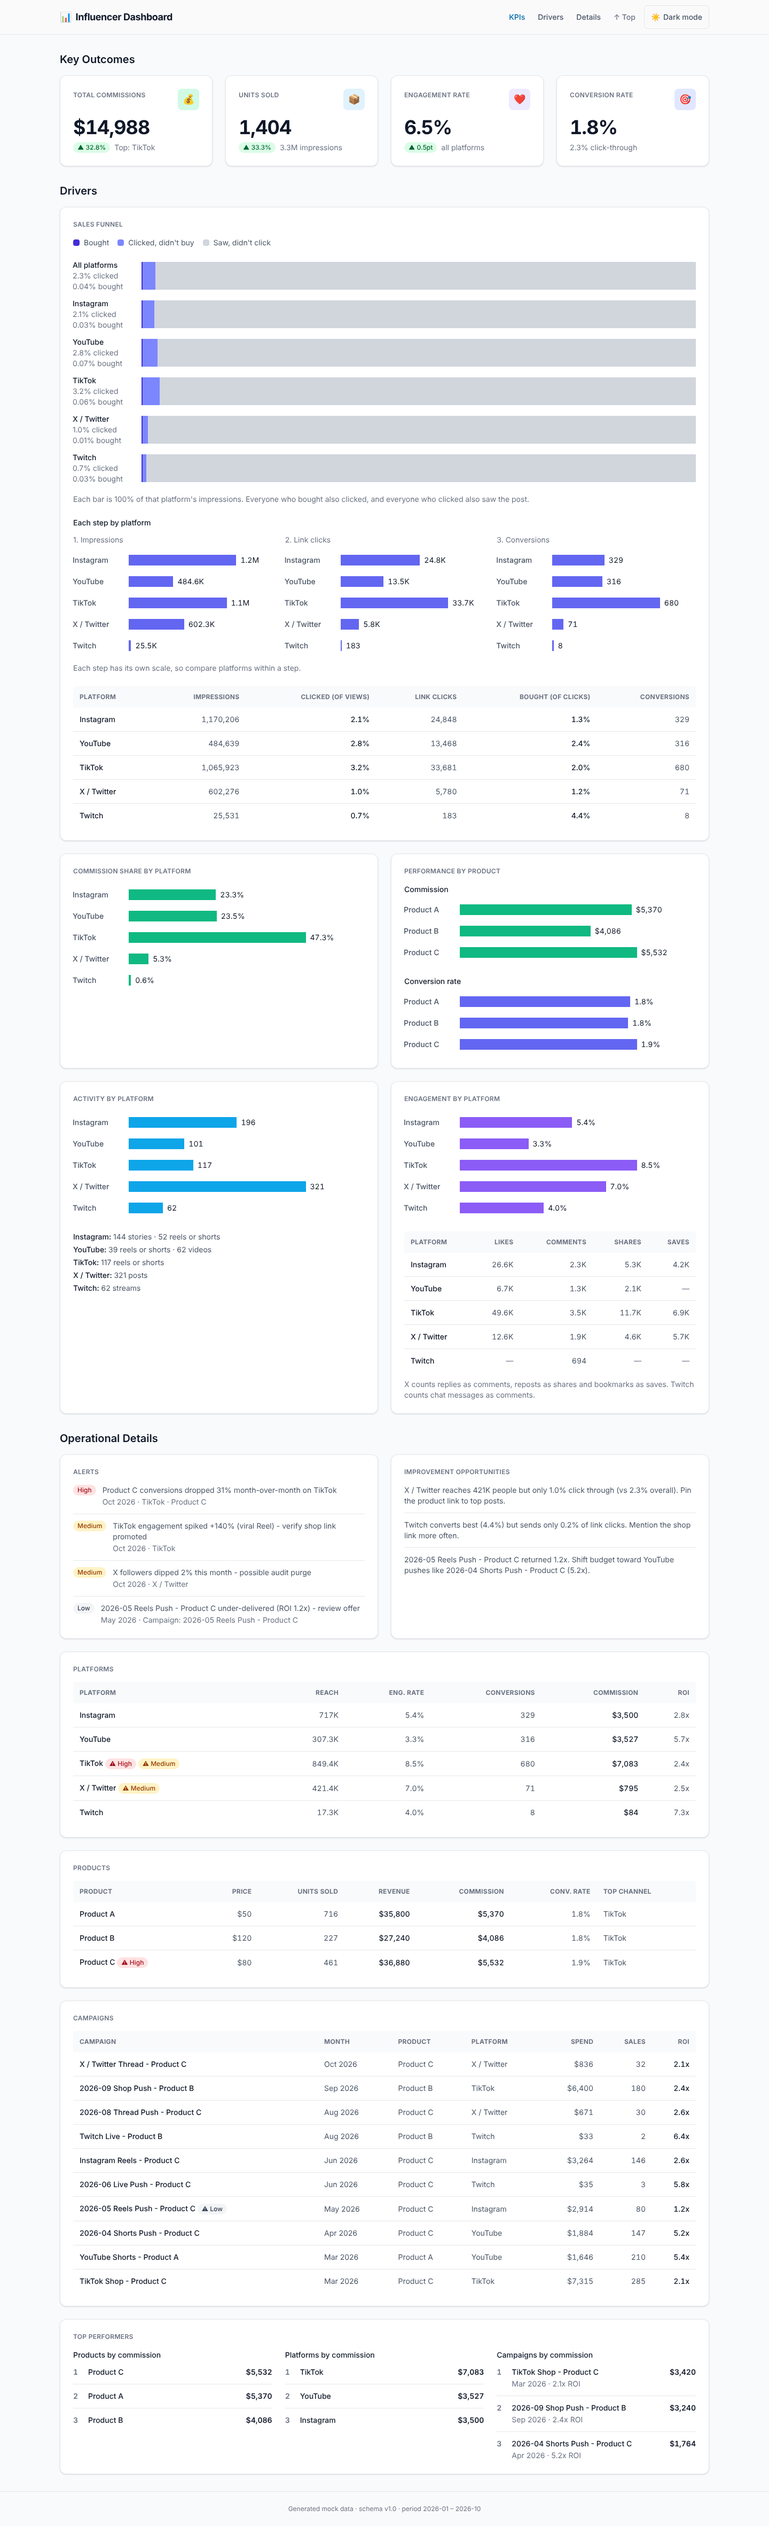
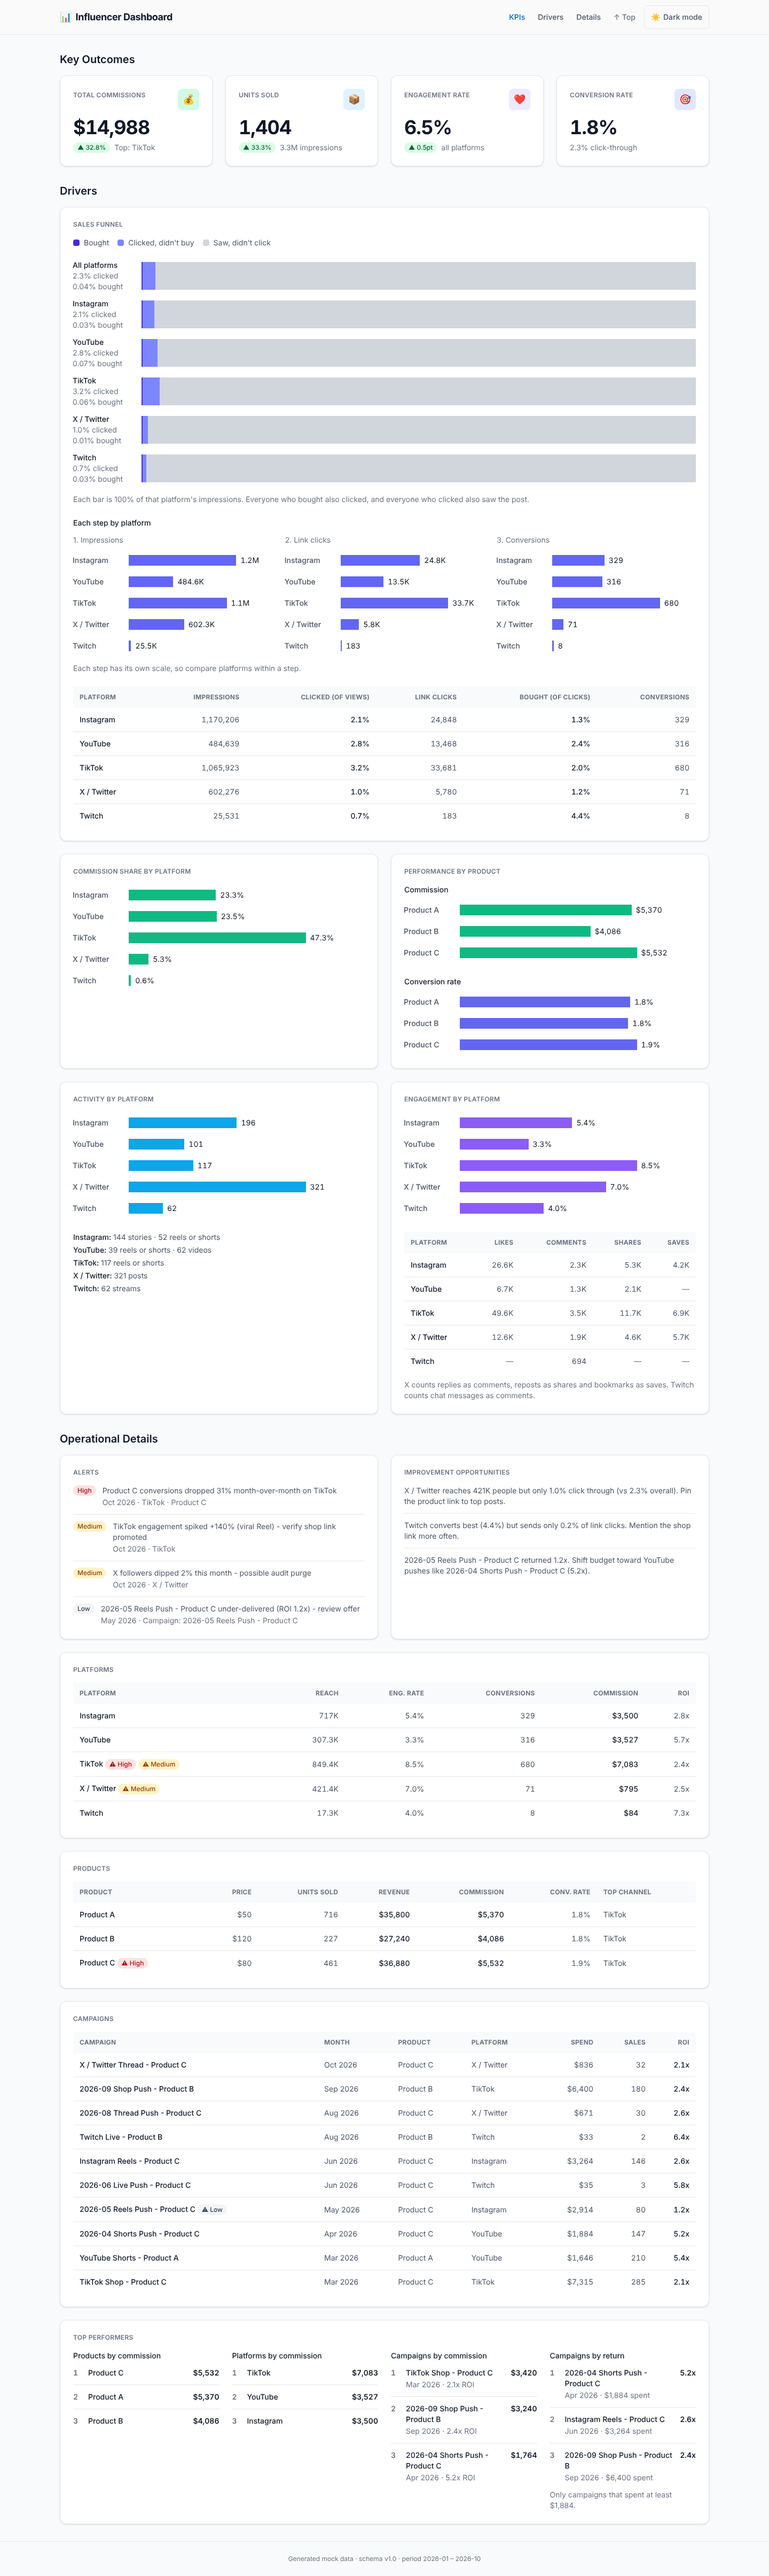
Add a "Campaigns by return" list with a minimum spend
Top performers now ranks campaigns by commission and, separately, by ROI
among campaigns that spent at least the median, so $33 tests don't top
the ROI list. The generator precomputes rankings.campaignsByRoi and
roiMinSpend, with invariant checks.

Claude-Session: https://claude.ai/code/session_018vAGCnrhPDK2QZmrSrs5ox

diff --git a/app.js b/app.js
@@ -587,7 +587,7 @@
 
     var topCard = card("Top Performers");
     topCard.className += " lg:col-span-2";
-    var topGrid = el("div", "grid gap-6 md:grid-cols-3");
+    var topGrid = el("div", "grid gap-6 md:grid-cols-2 lg:grid-cols-4");
     [
       {
         subtitle: "Products by commission",
@@ -609,11 +609,20 @@
           var c = campaignById[id];
           return { text: c.name, meta: month(c.period) + " · " + ratio(c.roi) + " ROI", value: usd(c.commission) };
         })
+      },
+      {
+        subtitle: "Campaigns by return",
+        note: "Only campaigns that spent at least " + usd(derived.roiMinSpend) + ".",
+        items: derived.rankings.campaignsByRoi.slice(0, 3).map(function (id) {
+          var c = campaignById[id];
+          return { text: c.name, meta: month(c.period) + " · " + usd(c.spend) + " spent", value: ratio(c.roi) };
+        })
       }
     ].forEach(function (group) {
       var col = el("div", "min-w-0");
       col.appendChild(el("p", "text-sm font-medium mb-3 " + T.heading, group.subtitle));
       col.appendChild(list({ ordered: true, items: group.items }));
+      if (group.note) col.appendChild(el("p", "mt-3 text-sm " + T.muted, group.note));
       topGrid.appendChild(col);
     });
     topCard.appendChild(topGrid);

diff --git a/data.js b/data.js
@@ -822,10 +822,12 @@ window.DATA = {
         "viewedOnlyPct": 99.2832,
       },
     },
+    "roiMinSpend": 1884.06,
     "rankings": {
       "products": ["prod-c", "prod-a", "prod-b"],
       "platforms": ["tiktok", "youtube", "instagram", "x", "twitch"],
       "campaigns": ["cmp-06", "cmp-05", "cmp-03", "cmp-02", "cmp-04", "cmp-01", "cmp-08", "cmp-07", "cmp-09", "cmp-10"],
+      "campaignsByRoi": ["cmp-03", "cmp-02", "cmp-05", "cmp-06", "cmp-01"],
     },
     "opportunities": [
       {

diff --git a/scripts/generate-data.py b/scripts/generate-data.py
@@ -569,11 +569,17 @@ def _driver_rollups(data: dict) -> None:
     for p in data["platforms"]:
         d["funnelMix"][p["id"]] = mix(p["impressions"], p["linkClicks"], p["conversions"])
 
-    # Top lists: ids ranked best first.
+    # Top lists: ids ranked best first. ROI is only ranked for campaigns with at
+    # least median spend; a $33 test's ratio swings on a single sale.
+    spends = sorted(c["spend"] for c in data["campaigns"])
+    median_spend = spends[len(spends) // 2]
+    d["roiMinSpend"] = median_spend
     d["rankings"] = {
         "products": [p["id"] for p in sorted(data["products"], key=lambda x: -x["commission"])],
         "platforms": [p["id"] for p in sorted(data["platforms"], key=lambda x: -x["commission"])],
         "campaigns": [c["id"] for c in sorted(data["campaigns"], key=lambda x: -x["commission"])],
+        "campaignsByRoi": [c["id"] for c in sorted((c for c in data["campaigns"] if c["spend"] >= median_spend),
+                                                   key=lambda x: -x["roi"])],
     }
 
     # Improvement opportunities: one short, data-backed suggestion each.
@@ -597,9 +603,7 @@ def _driver_rollups(data: dict) -> None:
     })
     worst_cmp = min(data["campaigns"], key=lambda c: c["roi"])
     # Only compare against campaigns with real spend; tiny tests inflate ROI.
-    spends = sorted(c["spend"] for c in data["campaigns"])
-    median_spend = spends[len(spends) // 2]
-    best_cmp = max((c for c in data["campaigns"] if c["spend"] >= median_spend), key=lambda c: c["roi"])
+    best_cmp = [c for c in data["campaigns"] if c["id"] == d["rankings"]["campaignsByRoi"][0]][0]
     opps.append({
         "campaignId": worst_cmp["id"],
         "message": f"{worst_cmp['name']} returned {worst_cmp['roi']:.1f}x. Shift budget toward "
@@ -752,6 +756,10 @@ def run_invariants(data: dict) -> bool:
     check(len(d["rankings"]["campaigns"]) == len(data["campaigns"]), "rankings.campaigns lists every campaign")
     check(d["rankings"]["platforms"][0] == d["topPlatform"], "rankings.platforms starts with topPlatform")
     check(len(d["opportunities"]) >= 1, "at least one opportunity present")
+    roi_ids = d["rankings"]["campaignsByRoi"]
+    check(len(roi_ids) >= 3, "rankings.campaignsByRoi has at least 3 campaigns")
+    check(all(c["spend"] >= d["roiMinSpend"] for c in data["campaigns"] if c["id"] in roi_ids),
+          "rankings.campaignsByRoi only counts campaigns at or above roiMinSpend")
     for key, m in d["funnelMix"].items():
         check(m["conversions"] <= m["linkClicks"] <= m["impressions"], f"funnelMix {key} steps only shrink")
         check(abs(m["boughtPct"] + m["clickedOnlyPct"] + m["viewedOnlyPct"] - 100) < 0.01,

diff --git a/resources/design-spec.md b/resources/design-spec.md
@@ -188,9 +188,9 @@ Built from `resources/brief.md`. Items marked "No" are deliberately left out; do
 | Details | Platforms table | Yes | Reach, engagement rate, conversions, commission, ROI |
 | Details | Campaigns table | Yes | Month, product, platform, spend, sales (results), ROI; newest first |
 | Details | Alerts | Yes | Conversion drops and spikes, shown next to the related row as well as in the list |
-| Details | Top lists | Yes | "Top Performers" card: top products, top 3 platforms, top 3 campaigns, all by commission. "Improvement Opportunities" is its own card |
+| Details | Top lists | Yes | "Top Performers" card: top products, top 3 platforms and top 3 campaigns by commission, plus top 3 campaigns by ROI among those that spent at least the median (`derived.roiMinSpend`), with a note giving that minimum. Four columns at `lg:`, two at `md:`. "Improvement Opportunities" is its own card |
 
-Card order. **Drivers**: Sales funnel (full width, above the grid), then Commission share by platform, Performance by product, Activity by platform, Engagement by platform. **Details**: Alerts and Improvement opportunities side by side, then the Platforms, Products and Campaigns tables, then Top performers (full width, three columns from `md:`).
+Card order. **Drivers**: Sales funnel (full width, above the grid), then Commission share by platform, Performance by product, Activity by platform, Engagement by platform. **Details**: Alerts and Improvement opportunities side by side, then the Platforms, Products and Campaigns tables, then Top performers (full width).
 
 ## 9. Theme toggle
 

diff --git a/resources/decisions.md b/resources/decisions.md
@@ -114,3 +114,11 @@
 - **Rationale**: mae's reference was a 100% stacked bar chart. The funnel steps are nested (a buyer also clicked and saw), so the three buckets partition impressions and a part-to-whole bar is truthful. mae asked to keep the per-step charts: the stacked bars show the drop-off within each platform, the per-step charts compare platforms at each step. One hue keeps the steps reading as an order, not as unrelated categories.
 - **Alternatives considered**: linear bars per step (the previous version; replaced at mae's request); a zoomed bar of clicks only (not built yet: it would make the bought/clicked split easier to see, but the whole-funnel framing is what mae asked for).
 - **Status**: Accepted (2026-10-20).
+
+---
+
+### [2026-10-20] Rank campaigns by commission and by ROI with a minimum spend
+- **Decision**: Top performers lists campaigns twice: by commission, and by ROI among campaigns that spent at least the median (`derived.roiMinSpend`, $1,884 with the default seed).
+- **Rationale**: Ranked by ROI alone, two Twitch tests that spent about $34 each come first (6.4x, 5.8x). Their ratios swing on a single sale. The two lists show the biggest earners and the most efficient campaigns with real budgets.
+- **Alternatives considered**: commission only (hides efficiency); ROI only (tiny tests win); a fixed dollar threshold (rejected: the median adapts if the data changes).
+- **Status**: Proposed. Awaiting mae's choice; ROI's basis (sales revenue or commission) is also open.
